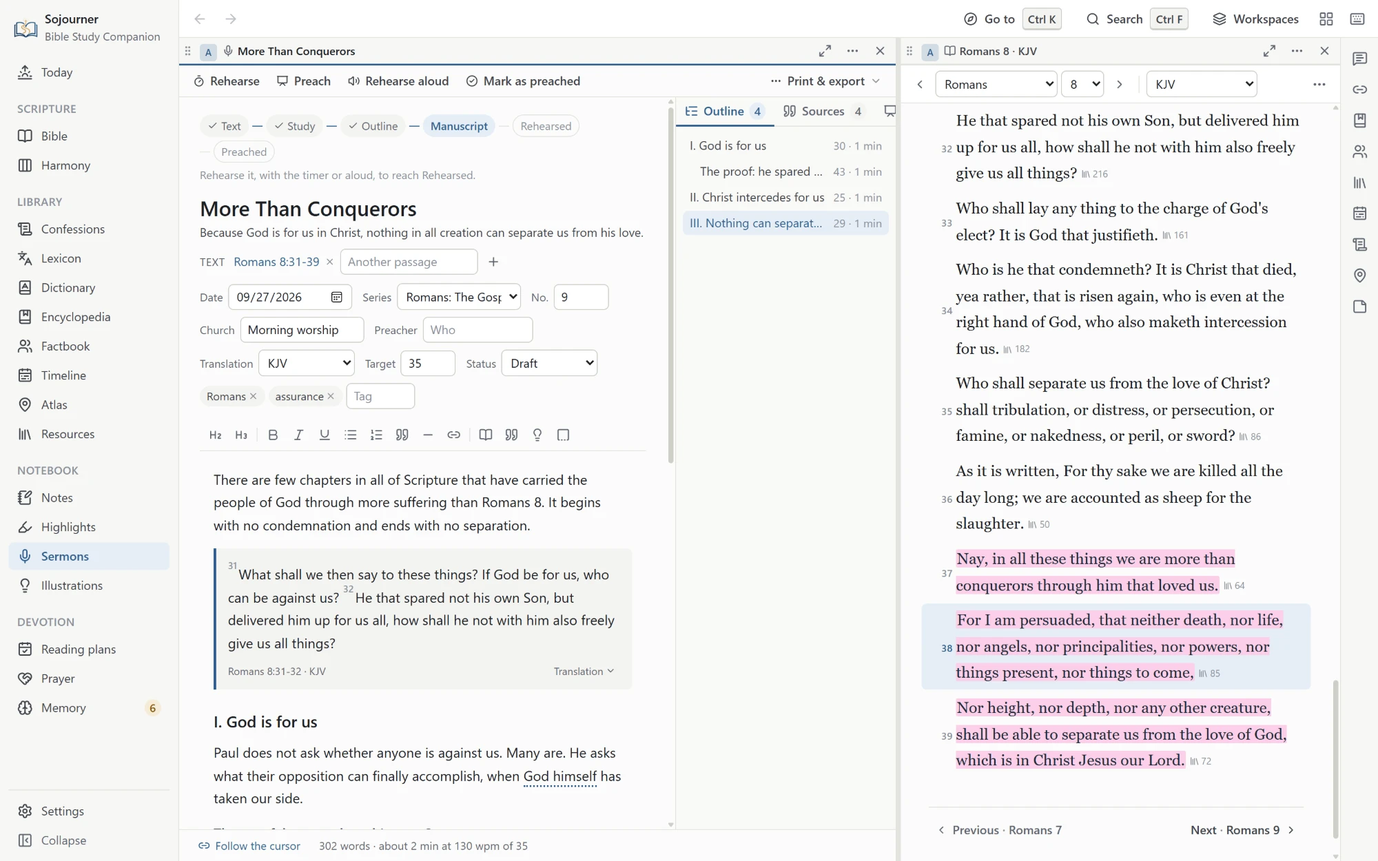
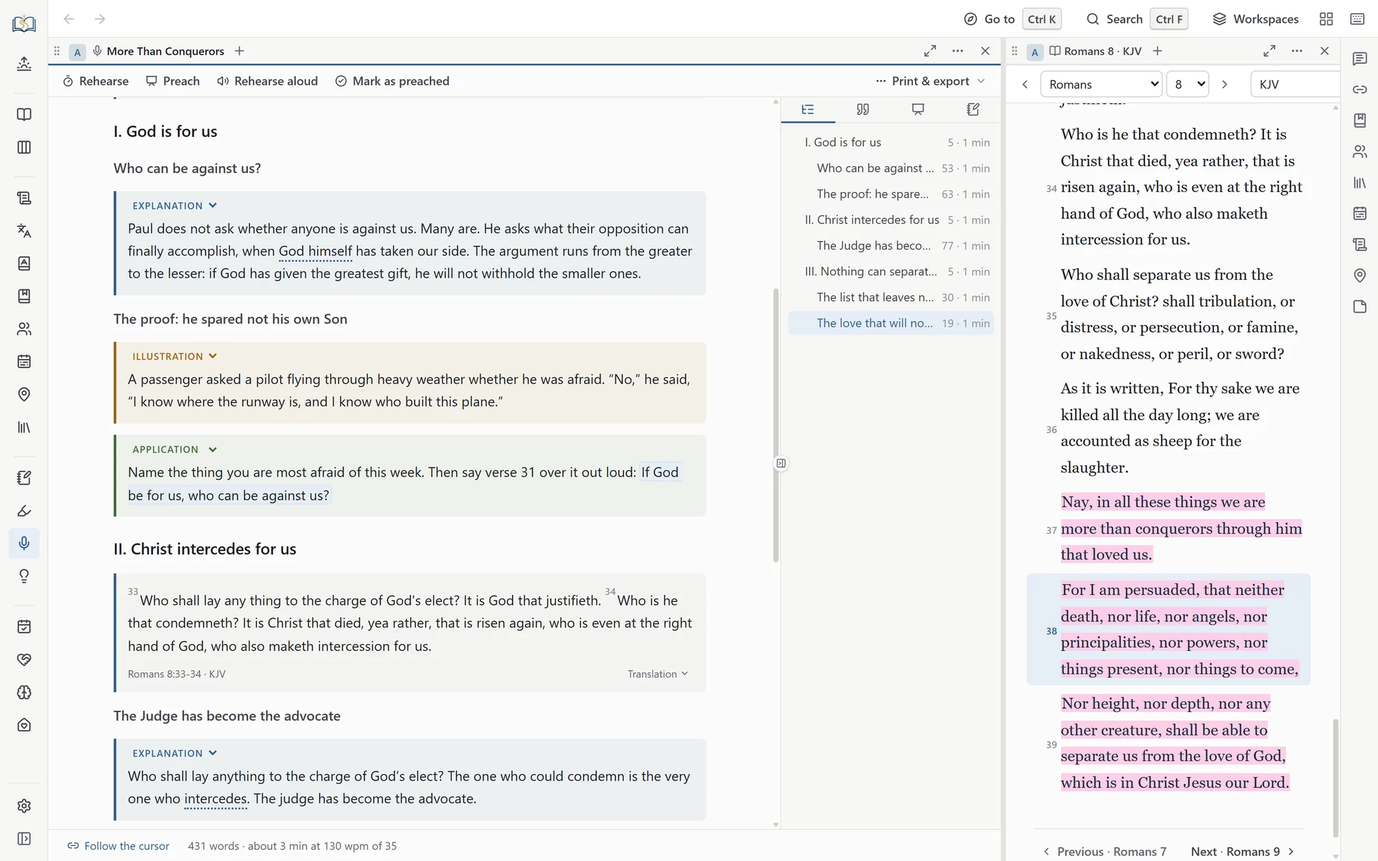
Put the 0.3.3 screenshots on the Sojourner page
The Romans 8:28 study now leads the page, and the Cited picture goes back
under Cited in your library. The sermon section shows the colored blocks,
the idea catcher, the twelve templates, preaching mode with its blocks, and
the podium file on two phones. Family worship gets its page and Gather round.

Claude-Session: https://claude.ai/code/session_01N4DmepwzFz7aE3hDGq24SM

diff --git a/software.html b/software.html
@@ -86,11 +86,11 @@ document.documentElement.classList.add('js');
     four hundred years. The Hebrew and Greek lie underneath, and the tools for preparing a sermon
     and leading family worship sit on top. All of it is on your own machine. None of it asks you to sign in.</p>
   <figure class="shot">
-    <a href="assets/img/sojourner-cited.webp" aria-label="See the full size screenshot">
-      <img src="assets/img/sojourner-cited-1000.webp" width="1000" height="625"
-           loading="lazy" decoding="async" alt="Romans 8 in the King James with verse 28 highlighted, and beside it the Cited pane for Romans 8:28, cited 201 times in 86 books. Under the Church Fathers it lists each volume that cites the verse, among them Augustine&rsquo;s Confessions and City of God and Chrysostom&rsquo;s homilies, with the footnote or passage where each one does.">
+    <a href="assets/img/sojourner-study.webp" aria-label="See the full size screenshot">
+      <img src="assets/img/sojourner-study-1000.webp" width="1000" height="625"
+           loading="lazy" decoding="async" alt="Romans 8 in the King James with verse 28 highlighted, and a small count after each verse. Beside it, Matthew Henry&rsquo;s Commentary on the Whole Bible at Romans 8:28, on the concurrence of all providences for the good of those that are Christ&rsquo;s, and below that the cross references for the verse, led by 1 Peter 5:10, James 1:12, and Genesis 50:20.">
     </a>
-    <figcaption>Romans 8:28 and the books on your shelves that cite it, 201 times in 86 books, the Fathers first. The small number after each verse is that count.</figcaption>
+    <figcaption>Romans 8:28 with Matthew Henry&rsquo;s Commentary on the Whole Bible beside it and the cross references below. The small number after each verse counts the times your books cite it.</figcaption>
   </figure>
   <p>Most study software wants something from you first. An account. A subscription. A connection.
     A tier that hides the good commentaries until you pay. Sojourner wants none of it. You install
@@ -314,8 +314,14 @@ document.documentElement.classList.add('js');
   <h3>Cited in your library</h3>
   <p>Beside each verse, a small count shows how many times the books on your shelves cite it. Click it for
     the list, and click a citation to open the book at that page. It is a quiet way to find out who
-    else has stood over the verse you are reading. The picture at the top of this page shows it for
-    Romans 8:28.</p>
+    else has stood over the verse you are reading.</p>
+  <figure class="shot">
+    <a href="assets/img/sojourner-cited.webp" aria-label="See the full size screenshot">
+      <img src="assets/img/sojourner-cited-1000.webp" width="1000" height="625"
+           loading="lazy" decoding="async" alt="Romans 8 in the King James with verse 28 highlighted, and beside it the Cited pane for Romans 8:28, cited 201 times in 86 books. Under the Church Fathers it lists each volume that cites the verse, among them Augustine&rsquo;s Confessions and City of God and Chrysostom&rsquo;s homilies, with the footnote or passage where each one does.">
+    </a>
+    <figcaption>Romans 8:28, cited 201 times in 86 books. Each book shows where it cites the verse, and a click opens it there.</figcaption>
+  </figure>
   <h3>Your own books and recordings</h3>
   <p>Bring in your own EPUB, PDF, and MOBI books and your own audio and video. All of it goes into
     the search box and is scanned for the verses it cites. You can group it by author, by date, or
@@ -493,17 +499,17 @@ document.documentElement.classList.add('js');
     everything written under them, along with it. Open another page while you write and it comes up
     in a new tab beside the sermon instead of in its place, so the manuscript is only a click
     away.</p>
-  <figure class="shot">
-    <a href="assets/img/sojourner-sermon.webp" aria-label="See the full size screenshot">
-      <img src="assets/img/sojourner-sermon-1000.webp" width="1000" height="625"
-           loading="lazy" decoding="async" alt="The sermon editor with a manuscript titled More Than Conquerors, on Romans 8:31-39. A six-stage preparation track across the top stands at Manuscript. A live passage block holds Romans 8:31-32, the outline on the right lists each point with its words and minutes, and Romans 8 is open in a pane beside it.">
-    </a>
-    <figcaption>The manuscript, the outline built from its own points, and the passage open beside it. The footer counts the words and times them at your measured speaking rate.</figcaption>
-  </figure>
   <p>Part of a point can be set apart as a block for the explanation, the illustration, or the
     application. A block can also mark a transition, or carry a name you give it. Each kind has its own color,
     and the colors carry through to preaching mode and print, so you can find the application
     under any point at a glance.</p>
+  <figure class="shot">
+    <a href="assets/img/sojourner-sermon.webp" aria-label="See the full size screenshot">
+      <img src="assets/img/sojourner-sermon-1000.webp" width="1000" height="625"
+           loading="lazy" decoding="async" alt="The sermon editor with a manuscript titled More Than Conquerors. Under the first point, God is for us, an explanation block is shaded blue, an illustration block tan, and an application block green. Under the second point, Christ intercedes for us, a live passage block holds Romans 8:33-34. The outline on the right lists each point with its words and minutes, and Romans 8 is open in a pane beside it.">
+    </a>
+    <figcaption>Explanation, illustration, and application, each in its own color under the point it serves. The outline beside the manuscript gives the words and minutes of every point.</figcaption>
+  </figure>
   <p>Every verse, commentary entry, confession section, lexicon entry, word study, encyclopedia
     article, and book selection carries a small microphone button. Press it and that text drops into
     the open sermon with its source line already attached. You never lose track of where a quotation
@@ -512,6 +518,13 @@ document.documentElement.classList.add('js');
     sermon idea from anywhere in the program, and a selection in the Bible can start one with its
     verses already attached. Ideas wait in an inbox beside every manuscript and on the Sermons page,
     until you drag one into a sermon or start a new sermon from it.</p>
+  <figure class="shot">
+    <a href="assets/img/sojourner-ideas.webp" aria-label="See the full size screenshot">
+      <img src="assets/img/sojourner-ideas-1000.webp" width="1000" height="625"
+           loading="lazy" decoding="async" alt="A small window titled A sermon idea, open over the same manuscript. The idea is to pair Psalm 23:4 with John 10:4 for a funeral on Saturday, the shepherd who goes before his sheep through the valley, and Psalm 23:4 is filled in as its passage. A line beneath says the idea waits in the Ideas tab beside every sermon and on the Sermons page. Behind the window, the Ideas tab holds the ideas caught before it.">
+    </a>
+    <figcaption>Catching an idea for a funeral on Saturday. Keep it, and it waits in the Ideas tab beside the sermon and on the Sermons page.</figcaption>
+  </figure>
   <p>Illustrations go into a file of their own, each with where it came from and where you have
     used it. When you reach for one you have already told in this series, it says so before you
     put it in.</p>
@@ -519,6 +532,13 @@ document.documentElement.classList.add('js');
     each with an explanation, an illustration, and an application. Others give a verse-by-verse
     outline, a defender&rsquo;s outline for answering an objection, and an outline for preaching
     to children and youth.</p>
+  <figure class="shot">
+    <a href="assets/img/sojourner-templates.webp" aria-label="See the full size screenshot">
+      <img src="assets/img/sojourner-templates-1000.webp" width="1000" height="625"
+           loading="lazy" decoding="async" alt="A new sermon titled The Spirit of Adoption, on Romans 8:12-17, with the preparation track at Study and nothing written yet. The Start from menu is open on the sermon templates, Expository, Textual, Topical, Evangelistic, Funeral, Wedding, Bible study, Three points, Me We God You We, Verse by verse, Defender&rsquo;s outline, and Children and youth. Romans 8 is open beside it at verse 15.">
+    </a>
+    <figcaption>A blank page and the twelve templates you can start it from.</figcaption>
+  </figure>
   <p>Around that sit a six-stage preparation track, timed rehearsals that measure your speaking
     rate, and a preaching mode with pulpit-sized type and a clock. It will generate slides and
     export them to PowerPoint, and any line you mark gets a slide of its own. It builds fill-in
@@ -528,14 +548,21 @@ document.documentElement.classList.add('js');
   <figure class="shot">
     <a href="assets/img/sojourner-preach.webp" aria-label="See the full size screenshot">
       <img src="assets/img/sojourner-preach-1000.webp" width="1000" height="625"
-           loading="lazy" decoding="async" alt="Preaching mode, full screen, with the sermon title More Than Conquerors, its one-line summary, the text Romans 8:31-39, the opening paragraph, and Romans 8:31-32 set in large type. A bar along the foot shows the time preached, the time left, and where you are, the opening, with the first point, God is for us, coming next.">
+           loading="lazy" decoding="async" alt="Preaching mode, full screen, at the point The proof, he spared not his own Son. Its illustration block, shaded tan, and its application block, shaded green, are set in large type. A bar along the foot shows one minute preached and thirty-three minutes and fifty-nine seconds left, the point you are on and the next, Christ intercedes for us, and part 4 of 9.">
     </a>
-    <figcaption>Preaching mode. The bar at the foot keeps the time, counts down what is left, and shows where you are and the point that comes next.</figcaption>
+    <figcaption>Preaching mode keeps the colors of the blocks. The bar at the foot keeps the time, counts down what is left, and shows the point that comes next.</figcaption>
   </figure>
   <p>If you preach from a phone or a tablet, there is a podium file. It is the whole manuscript as
     one small web page with every passage written into it, so it needs no internet and no program
     but a browser. A tap turns the page, the text grows or shrinks to suit your eyes, and a clock
     keeps time against the minutes you meant to take.</p>
+  <figure class="shot shot-tall">
+    <a href="assets/img/sojourner-podium.webp" aria-label="See the full size screenshot">
+      <img src="assets/img/sojourner-podium-1000.webp" width="1000" height="1027"
+           loading="lazy" decoding="async" alt="The podium file open on two phones. On the first, the title page, More Than Conquerors, Romans 8:31-39, its one-line summary, the date and service, and the opening paragraph. On the second, the fourth part, The proof, he spared not his own Son, with its illustration and application blocks in their colors. Across the top of each are a menu of the parts, a clock at nothing of thirty-five minutes, and buttons to make the text smaller or larger.">
+    </a>
+    <figcaption>The podium file on a phone. The title and the opening on one, and a point with its blocks on the other.</figcaption>
+  </figure>
 </section>
 
 <section class="section" id="devotion">
@@ -596,6 +623,13 @@ document.documentElement.classList.add('js');
     catechism, and pray. If you choose a verse to learn by heart, you say it together before you
     pray. The Family worship page walks through each step in order, so nothing has to be prepared
     ahead and no one has to preach.</p>
+  <figure class="shot">
+    <a href="assets/img/sojourner-family.webp" aria-label="See the full size screenshot">
+      <img src="assets/img/sojourner-family-1000.webp" width="1000" height="625"
+           loading="lazy" decoding="async" alt="The Family worship page, gathered eight times this September. Tonight the family reads Exodus 20:1-17, the Ten Commandments, sings Psalm 23, goes over question 5 of the Catechism for Young Children, and prays for three people from the prayer list. Beside the Begin button is Gather round. Below are the readings for the days coming up, from David and Goliath to the boy Jesus in the temple, a calendar of the last five weeks with a dot on each day the family met, and the reading plan in use, The First Four Weeks, at day 9 of 28.">
+    </a>
+    <figcaption>The Family worship page. Tonight&rsquo;s reading, psalm, catechism question, and names to pray for, the readings still to come, and a dot for each day the family met.</figcaption>
+  </figure>
   <blockquote class="scripture">
     <p>And these words, which I command thee this day, shall be in thine heart: And thou shalt teach them diligently unto thy children, and shalt talk of them when thou sittest in thine house, and when thou walkest by the way, and when thou liest down, and when thou risest up.</p>
     <cite>Deuteronomy 6:6-7 (KJV)</cite>
@@ -617,6 +651,13 @@ document.documentElement.classList.add('js');
     place. The page counts the times you gather, not the days on the calendar, so a missed night
     costs nothing. You pick up where you left off. There is no streak to break, only a quiet mark
     for each day you met.</p>
+  <figure class="shot">
+    <a href="assets/img/sojourner-gather.webp" aria-label="See the full size screenshot">
+      <img src="assets/img/sojourner-gather-1000.webp" width="1000" height="625"
+           loading="lazy" decoding="async" alt="Gather round, filling the screen, at the catechism step, with Read and Sing checked off above it and Pray still to come. Tonight&rsquo;s question from the Catechism for Young Children is question 5, Why ought you to glorify God? Because he made me and takes care of me. Beneath it, under Go over, earlier questions come round again, Who made you? and Why did God make you and all things? with their answers hidden behind Show the answer. A button at the foot reads Next, Pray.">
+    </a>
+    <figcaption>Gather round at the catechism. Tonight&rsquo;s question, and the earlier ones coming round again with their answers hidden.</figcaption>
+  </figure>
   <p>The Print this week button puts the next seven readings, the psalm, the catechism questions, the memory
     verse, and the names to pray for on one sheet. For the one leading, the page gives a little
     plain counsel and points you to the old helps. The Directory for Family-Worship, which the

diff --git a/content/software.html b/content/software.html
@@ -6,11 +6,11 @@
     four hundred years. The Hebrew and Greek lie underneath, and the tools for preparing a sermon
     and leading family worship sit on top. All of it is on your own machine. None of it asks you to sign in.</p>
   <figure class="shot">
-    <a href="assets/img/sojourner-cited.webp" aria-label="See the full size screenshot">
-      <img src="assets/img/sojourner-cited-1000.webp" width="1000" height="625"
-           loading="lazy" decoding="async" alt="Romans 8 in the King James with verse 28 highlighted, and beside it the Cited pane for Romans 8:28, cited 201 times in 86 books. Under the Church Fathers it lists each volume that cites the verse, among them Augustine&rsquo;s Confessions and City of God and Chrysostom&rsquo;s homilies, with the footnote or passage where each one does.">
+    <a href="assets/img/sojourner-study.webp" aria-label="See the full size screenshot">
+      <img src="assets/img/sojourner-study-1000.webp" width="1000" height="625"
+           loading="lazy" decoding="async" alt="Romans 8 in the King James with verse 28 highlighted, and a small count after each verse. Beside it, Matthew Henry&rsquo;s Commentary on the Whole Bible at Romans 8:28, on the concurrence of all providences for the good of those that are Christ&rsquo;s, and below that the cross references for the verse, led by 1 Peter 5:10, James 1:12, and Genesis 50:20.">
     </a>
-    <figcaption>Romans 8:28 and the books on your shelves that cite it, 201 times in 86 books, the Fathers first. The small number after each verse is that count.</figcaption>
+    <figcaption>Romans 8:28 with Matthew Henry&rsquo;s Commentary on the Whole Bible beside it and the cross references below. The small number after each verse counts the times your books cite it.</figcaption>
   </figure>
   <p>Most study software wants something from you first. An account. A subscription. A connection.
     A tier that hides the good commentaries until you pay. Sojourner wants none of it. You install
@@ -234,8 +234,14 @@
   <h3>Cited in your library</h3>
   <p>Beside each verse, a small count shows how many times the books on your shelves cite it. Click it for
     the list, and click a citation to open the book at that page. It is a quiet way to find out who
-    else has stood over the verse you are reading. The picture at the top of this page shows it for
-    Romans 8:28.</p>
+    else has stood over the verse you are reading.</p>
+  <figure class="shot">
+    <a href="assets/img/sojourner-cited.webp" aria-label="See the full size screenshot">
+      <img src="assets/img/sojourner-cited-1000.webp" width="1000" height="625"
+           loading="lazy" decoding="async" alt="Romans 8 in the King James with verse 28 highlighted, and beside it the Cited pane for Romans 8:28, cited 201 times in 86 books. Under the Church Fathers it lists each volume that cites the verse, among them Augustine&rsquo;s Confessions and City of God and Chrysostom&rsquo;s homilies, with the footnote or passage where each one does.">
+    </a>
+    <figcaption>Romans 8:28, cited 201 times in 86 books. Each book shows where it cites the verse, and a click opens it there.</figcaption>
+  </figure>
   <h3>Your own books and recordings</h3>
   <p>Bring in your own EPUB, PDF, and MOBI books and your own audio and video. All of it goes into
     the search box and is scanned for the verses it cites. You can group it by author, by date, or
@@ -413,17 +419,17 @@
     everything written under them, along with it. Open another page while you write and it comes up
     in a new tab beside the sermon instead of in its place, so the manuscript is only a click
     away.</p>
-  <figure class="shot">
-    <a href="assets/img/sojourner-sermon.webp" aria-label="See the full size screenshot">
-      <img src="assets/img/sojourner-sermon-1000.webp" width="1000" height="625"
-           loading="lazy" decoding="async" alt="The sermon editor with a manuscript titled More Than Conquerors, on Romans 8:31-39. A six-stage preparation track across the top stands at Manuscript. A live passage block holds Romans 8:31-32, the outline on the right lists each point with its words and minutes, and Romans 8 is open in a pane beside it.">
-    </a>
-    <figcaption>The manuscript, the outline built from its own points, and the passage open beside it. The footer counts the words and times them at your measured speaking rate.</figcaption>
-  </figure>
   <p>Part of a point can be set apart as a block for the explanation, the illustration, or the
     application. A block can also mark a transition, or carry a name you give it. Each kind has its own color,
     and the colors carry through to preaching mode and print, so you can find the application
     under any point at a glance.</p>
+  <figure class="shot">
+    <a href="assets/img/sojourner-sermon.webp" aria-label="See the full size screenshot">
+      <img src="assets/img/sojourner-sermon-1000.webp" width="1000" height="625"
+           loading="lazy" decoding="async" alt="The sermon editor with a manuscript titled More Than Conquerors. Under the first point, God is for us, an explanation block is shaded blue, an illustration block tan, and an application block green. Under the second point, Christ intercedes for us, a live passage block holds Romans 8:33-34. The outline on the right lists each point with its words and minutes, and Romans 8 is open in a pane beside it.">
+    </a>
+    <figcaption>Explanation, illustration, and application, each in its own color under the point it serves. The outline beside the manuscript gives the words and minutes of every point.</figcaption>
+  </figure>
   <p>Every verse, commentary entry, confession section, lexicon entry, word study, encyclopedia
     article, and book selection carries a small microphone button. Press it and that text drops into
     the open sermon with its source line already attached. You never lose track of where a quotation
@@ -432,6 +438,13 @@
     sermon idea from anywhere in the program, and a selection in the Bible can start one with its
     verses already attached. Ideas wait in an inbox beside every manuscript and on the Sermons page,
     until you drag one into a sermon or start a new sermon from it.</p>
+  <figure class="shot">
+    <a href="assets/img/sojourner-ideas.webp" aria-label="See the full size screenshot">
+      <img src="assets/img/sojourner-ideas-1000.webp" width="1000" height="625"
+           loading="lazy" decoding="async" alt="A small window titled A sermon idea, open over the same manuscript. The idea is to pair Psalm 23:4 with John 10:4 for a funeral on Saturday, the shepherd who goes before his sheep through the valley, and Psalm 23:4 is filled in as its passage. A line beneath says the idea waits in the Ideas tab beside every sermon and on the Sermons page. Behind the window, the Ideas tab holds the ideas caught before it.">
+    </a>
+    <figcaption>Catching an idea for a funeral on Saturday. Keep it, and it waits in the Ideas tab beside the sermon and on the Sermons page.</figcaption>
+  </figure>
   <p>Illustrations go into a file of their own, each with where it came from and where you have
     used it. When you reach for one you have already told in this series, it says so before you
     put it in.</p>
@@ -439,6 +452,13 @@
     each with an explanation, an illustration, and an application. Others give a verse-by-verse
     outline, a defender&rsquo;s outline for answering an objection, and an outline for preaching
     to children and youth.</p>
+  <figure class="shot">
+    <a href="assets/img/sojourner-templates.webp" aria-label="See the full size screenshot">
+      <img src="assets/img/sojourner-templates-1000.webp" width="1000" height="625"
+           loading="lazy" decoding="async" alt="A new sermon titled The Spirit of Adoption, on Romans 8:12-17, with the preparation track at Study and nothing written yet. The Start from menu is open on the sermon templates, Expository, Textual, Topical, Evangelistic, Funeral, Wedding, Bible study, Three points, Me We God You We, Verse by verse, Defender&rsquo;s outline, and Children and youth. Romans 8 is open beside it at verse 15.">
+    </a>
+    <figcaption>A blank page and the twelve templates you can start it from.</figcaption>
+  </figure>
   <p>Around that sit a six-stage preparation track, timed rehearsals that measure your speaking
     rate, and a preaching mode with pulpit-sized type and a clock. It will generate slides and
     export them to PowerPoint, and any line you mark gets a slide of its own. It builds fill-in
@@ -448,14 +468,21 @@
   <figure class="shot">
     <a href="assets/img/sojourner-preach.webp" aria-label="See the full size screenshot">
       <img src="assets/img/sojourner-preach-1000.webp" width="1000" height="625"
-           loading="lazy" decoding="async" alt="Preaching mode, full screen, with the sermon title More Than Conquerors, its one-line summary, the text Romans 8:31-39, the opening paragraph, and Romans 8:31-32 set in large type. A bar along the foot shows the time preached, the time left, and where you are, the opening, with the first point, God is for us, coming next.">
+           loading="lazy" decoding="async" alt="Preaching mode, full screen, at the point The proof, he spared not his own Son. Its illustration block, shaded tan, and its application block, shaded green, are set in large type. A bar along the foot shows one minute preached and thirty-three minutes and fifty-nine seconds left, the point you are on and the next, Christ intercedes for us, and part 4 of 9.">
     </a>
-    <figcaption>Preaching mode. The bar at the foot keeps the time, counts down what is left, and shows where you are and the point that comes next.</figcaption>
+    <figcaption>Preaching mode keeps the colors of the blocks. The bar at the foot keeps the time, counts down what is left, and shows the point that comes next.</figcaption>
   </figure>
   <p>If you preach from a phone or a tablet, there is a podium file. It is the whole manuscript as
     one small web page with every passage written into it, so it needs no internet and no program
     but a browser. A tap turns the page, the text grows or shrinks to suit your eyes, and a clock
     keeps time against the minutes you meant to take.</p>
+  <figure class="shot shot-tall">
+    <a href="assets/img/sojourner-podium.webp" aria-label="See the full size screenshot">
+      <img src="assets/img/sojourner-podium-1000.webp" width="1000" height="1027"
+           loading="lazy" decoding="async" alt="The podium file open on two phones. On the first, the title page, More Than Conquerors, Romans 8:31-39, its one-line summary, the date and service, and the opening paragraph. On the second, the fourth part, The proof, he spared not his own Son, with its illustration and application blocks in their colors. Across the top of each are a menu of the parts, a clock at nothing of thirty-five minutes, and buttons to make the text smaller or larger.">
+    </a>
+    <figcaption>The podium file on a phone. The title and the opening on one, and a point with its blocks on the other.</figcaption>
+  </figure>
 </section>
 
 <section class="section" id="devotion">
@@ -516,6 +543,13 @@
     catechism, and pray. If you choose a verse to learn by heart, you say it together before you
     pray. The Family worship page walks through each step in order, so nothing has to be prepared
     ahead and no one has to preach.</p>
+  <figure class="shot">
+    <a href="assets/img/sojourner-family.webp" aria-label="See the full size screenshot">
+      <img src="assets/img/sojourner-family-1000.webp" width="1000" height="625"
+           loading="lazy" decoding="async" alt="The Family worship page, gathered eight times this September. Tonight the family reads Exodus 20:1-17, the Ten Commandments, sings Psalm 23, goes over question 5 of the Catechism for Young Children, and prays for three people from the prayer list. Beside the Begin button is Gather round. Below are the readings for the days coming up, from David and Goliath to the boy Jesus in the temple, a calendar of the last five weeks with a dot on each day the family met, and the reading plan in use, The First Four Weeks, at day 9 of 28.">
+    </a>
+    <figcaption>The Family worship page. Tonight&rsquo;s reading, psalm, catechism question, and names to pray for, the readings still to come, and a dot for each day the family met.</figcaption>
+  </figure>
   <blockquote class="scripture">
     <p>And these words, which I command thee this day, shall be in thine heart: And thou shalt teach them diligently unto thy children, and shalt talk of them when thou sittest in thine house, and when thou walkest by the way, and when thou liest down, and when thou risest up.</p>
     <cite>Deuteronomy 6:6-7 (KJV)</cite>
@@ -537,6 +571,13 @@
     place. The page counts the times you gather, not the days on the calendar, so a missed night
     costs nothing. You pick up where you left off. There is no streak to break, only a quiet mark
     for each day you met.</p>
+  <figure class="shot">
+    <a href="assets/img/sojourner-gather.webp" aria-label="See the full size screenshot">
+      <img src="assets/img/sojourner-gather-1000.webp" width="1000" height="625"
+           loading="lazy" decoding="async" alt="Gather round, filling the screen, at the catechism step, with Read and Sing checked off above it and Pray still to come. Tonight&rsquo;s question from the Catechism for Young Children is question 5, Why ought you to glorify God? Because he made me and takes care of me. Beneath it, under Go over, earlier questions come round again, Who made you? and Why did God make you and all things? with their answers hidden behind Show the answer. A button at the foot reads Next, Pray.">
+    </a>
+    <figcaption>Gather round at the catechism. Tonight&rsquo;s question, and the earlier ones coming round again with their answers hidden.</figcaption>
+  </figure>
   <p>The Print this week button puts the next seven readings, the psalm, the catechism questions, the memory
     verse, and the names to pray for on one sheet. For the one leading, the page gives a little
     plain counsel and points you to the old helps. The Directory for Family-Worship, which the

diff --git a/assets/css/site.css b/assets/css/site.css
@@ -930,6 +930,9 @@ main.has-toc > nav[data-toc]:not(.toc) { display: none; }
 }
 .shot > a:hover { border-color: var(--gold); }
 .shot img { display: block; width: 100%; height: auto; }
+/* A picture as tall as it is wide, like two phones side by side, would fill
+   the whole screen at the column's width, so it is held narrower. */
+.shot-tall > a { max-width: 34rem; }
 .shot figcaption {
   margin-top: .8rem;
   font-family: var(--font-ui);
